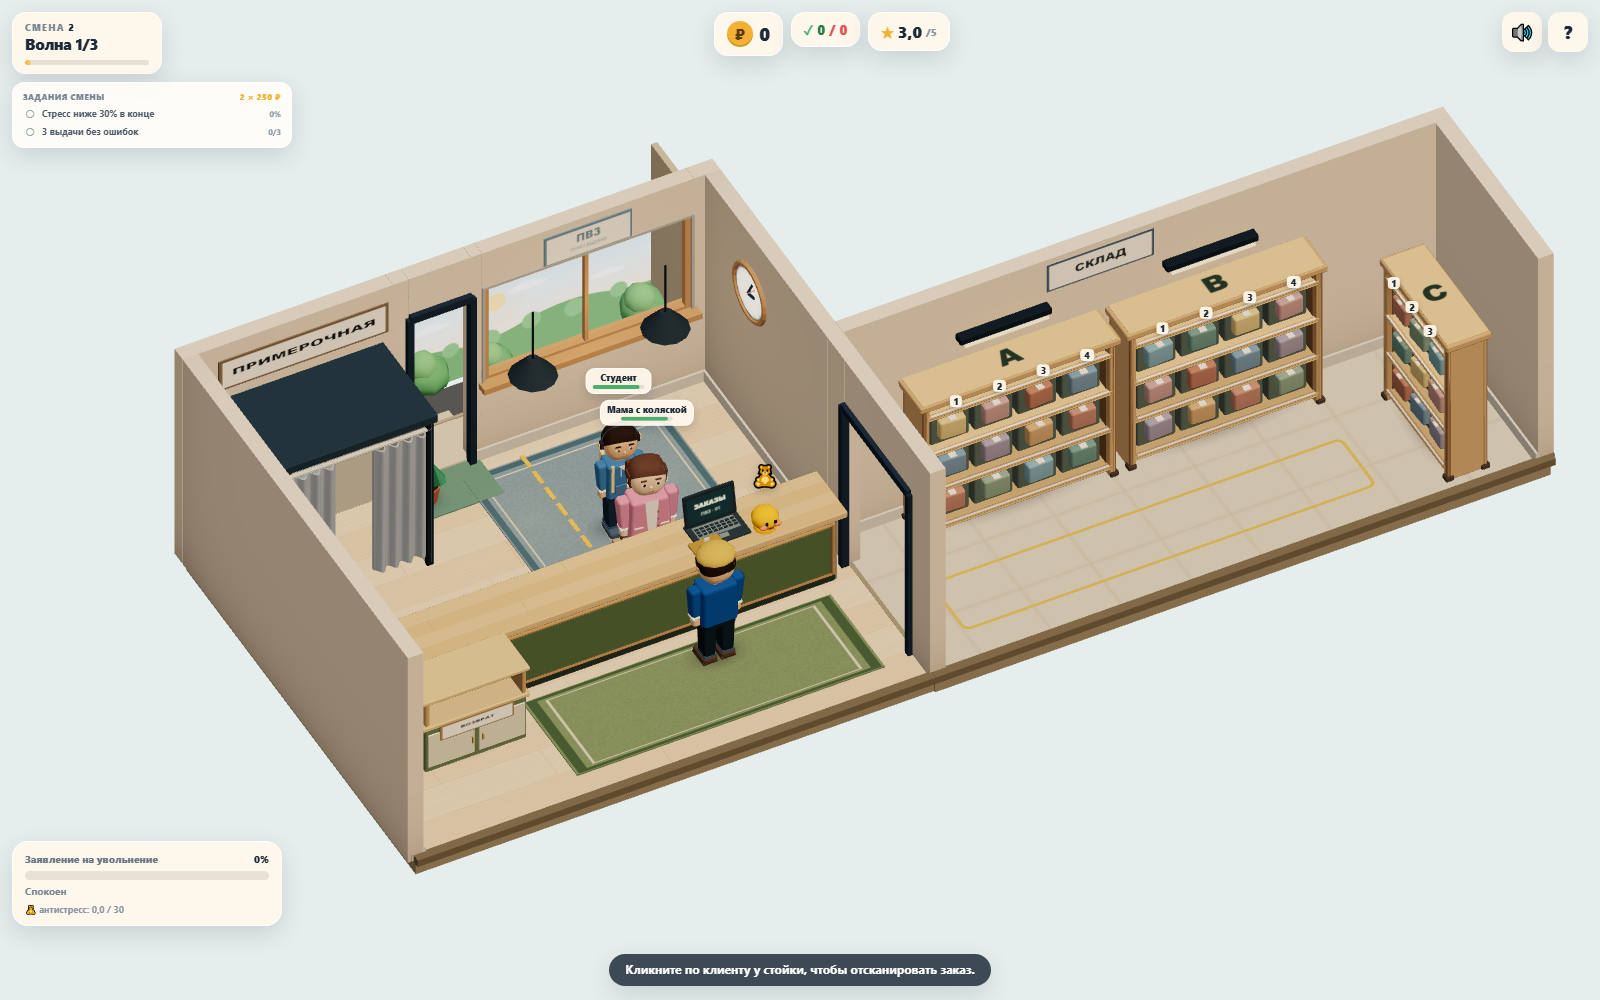
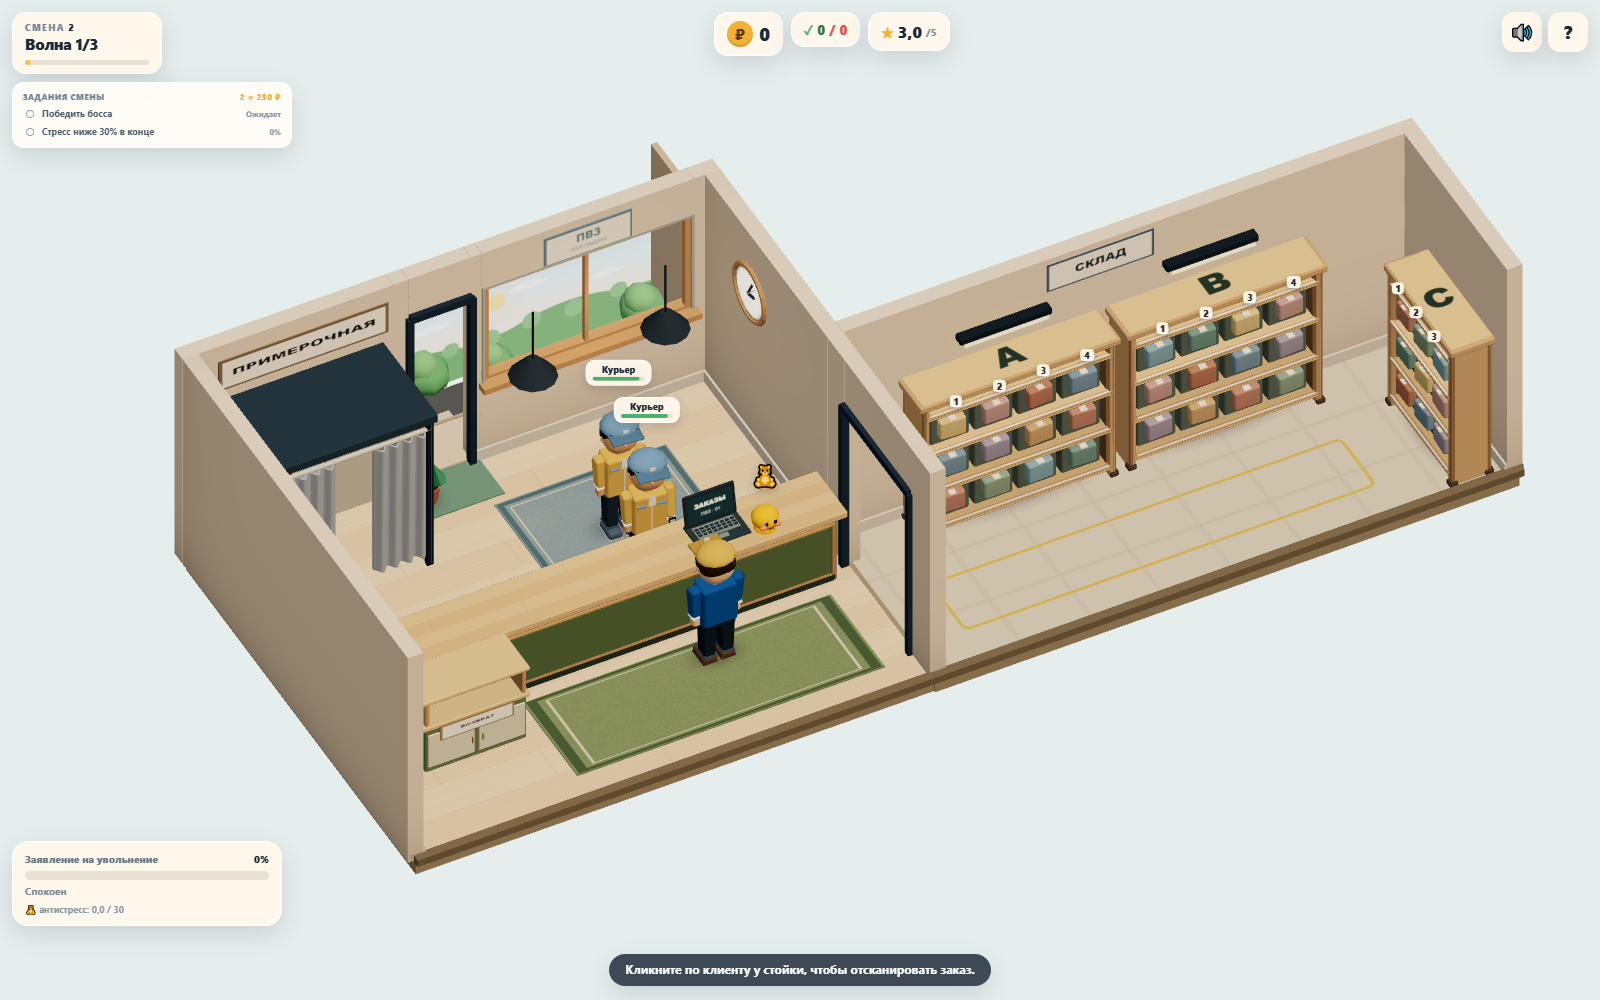
fix: подогнать коврик и стену за стеллажом C

diff --git a/src/view/environment.ts b/src/view/environment.ts
@@ -149,11 +149,11 @@ function createFloor(scene: THREE.Scene): THREE.Mesh[] {
 
 function createRug(scene: THREE.Scene): THREE.Mesh {
   const rug = new THREE.Mesh(
-    new THREE.BoxGeometry(2.55, 0.018, 2.5),
+    new THREE.BoxGeometry(2.2, 0.018, 1.85),
     new THREE.MeshLambertMaterial({ map: makeRugTexture() }),
   );
   rug.name = 'client-rug';
-  rug.position.set(0.35, 0.012, 2.12);
+  rug.position.set(0.4, 0.012, 1.9);
   rug.userData = { type: 'floor' };
   scene.add(rug);
 
@@ -545,15 +545,6 @@ function createWindow(scene: THREE.Scene): WindowVisual {
   return { setPhase, update: courtyard.update };
 }
 
-function createQueueLine(scene: THREE.Scene): void {
-  for (let index = 0; index < 9; index++) {
-    const dash = box(0.055, 0.012, 0.22, '#f0b44c');
-    dash.position.set(0.85, 0.02, 0.9 + index * 0.3);
-    dash.raycast = () => {};
-    scene.add(dash);
-  }
-}
-
 function createWalls(scene: THREE.Scene): {
   clock: THREE.Mesh;
   clockSecondHand: THREE.Object3D;
@@ -899,7 +890,6 @@ export function createEnvironment(scene: THREE.Scene): EnvironmentVisuals {
   const neon = createNeonSign(scene);
   createEntranceMat(scene);
   const windowVisual = createWindow(scene);
-  createQueueLine(scene);
   createLamps(scene);
   createFittingRooms(scene);
   createPlant(scene, 2.15, 3.25, 0.85);

diff --git a/src/data.ts b/src/data.ts
@@ -63,7 +63,7 @@ export function createDecorState(): DecorOwnership {
 
 // L-образная комната: основной зал справа, склад-крыло слева.
 export const ROOM = {
-  minX: -9.6,
+  minX: -9.2,
   maxX: 5.0,
   minZ: -2.0,
   maxZ: 3.8,
@@ -104,7 +104,7 @@ export const SHELF_DEFS: ShelfDef[] = [
   },
   {
     x: -8.6,
-    z: -1.0,
+    z: -1.1,
     rotation: Math.PI / 2,
     face: -Math.PI / 2,
     columns: 3,
@@ -159,7 +159,7 @@ export const FRONT_DOOR = { x: 1.8, z: 3.6, width: 0.8 };
 export const SHELF_POINTS: Vec2[] = [
   { x: -3.2, z: -0.55 },
   { x: -5.7, z: -0.55 },
-  { x: -7.7, z: -1.0 },
+  { x: -7.7, z: -1.1 },
 ];
 
 // Тот же угол 3/4; кадр расширен и сдвинут вместе с новым складским крылом.

diff --git a/src/view/props.ts b/src/view/props.ts
@@ -237,13 +237,14 @@ export function createShelf(index: number, scene: THREE.Scene): ShelfVisual {
   const labels: CSS2DObject[] = [];
   // Printed directly on the wooden top; it follows the shelf and its visibility.
   const letter = new THREE.Mesh(
-    new THREE.PlaneGeometry(0.56, 0.4),
+    new THREE.PlaneGeometry(0.7, 0.48),
     new THREE.MeshLambertMaterial({
       map: makeTextTexture(SHELF_LETTERS[index], { width: 256, height: 192, fontSize: 168, bg: 'transparent', color: '#34453a' }),
       transparent: true, depthWrite: false,
     }),
   );
   letter.name = 'shelf-top-letter';
+  letter.raycast = () => {};
   letter.rotation.x = -Math.PI / 2;
   letter.position.set(0, SHELF_H + 0.033, 0);
   // C runs across the room: keep its printed letter facing the same camera side.

diff --git a/docs/ROADMAP_ARCHITECTURE_GRAPHICS.md b/docs/ROADMAP_ARCHITECTURE_GRAPHICS.md
@@ -739,10 +739,11 @@ src/
 ### 6.58. Полировка геометрии интерьера — issue #72
 
 - Стойка укорочена со стороны складской арки: деревянный свес заканчивается перед рамой, противоположный край сохранён. Размеры nav-obstacle следуют COUNTER.
-- C сдвинут ближе к камере и B: (-8,6; -1,0); зелёная корзина убрана. Точка взаимодействия обновлена, маршруты ко всем колонкам B/C проверяются прежним e2e.
+- C сдвинут ближе к камере и B: (-8,6; -1,1); зелёная корзина убрана. Точка взаимодействия обновлена, маршруты ко всем колонкам B/C проверяются прежним e2e.
+- По уточнению владельца синий коврик уменьшен до 2,2 × 1,85 и сдвинут к стойке, клиентский пунктир убран. Стена за C приближена на 0,4 вместе с краем пола/nav; буквы увеличены. После уточнений повторены build, 92 unit и 8 профильных e2e, production preview и perf.
 - Большие A/B/C нанесены непосредственно на верхние панели. CSS2D-плашки букв убраны; номера колонок сохранены. Буквы скрываются вместе с неактивной полкой.
 - Разметка прохода уменьшена до 5,3 × 0,9 и отцентрована в свободной части склада. Наружные торцы стен замкнуты стыками впритык, без недостающих четвертей углов.
-- Build, 92 unit и 71 e2e прошли; production preview — без ошибок. Perf: 127/179 calls, 61 875/84 692 triangles, без shadow maps.
+- Build, 92 unit и 71 e2e прошли; production preview — без ошибок. Perf: 127/179 calls, 61 715/84 532 triangles, без shadow maps.
 - Механики, окно, камера, модели персонажей и магазин не менялись. Метрики и скриншоты — в `docs/perf/72-interior` и `docs/screenshots/72-interior`.
 
 ### Исторические метрики до визуальных проходов

diff --git a/docs/perf/72-interior/REPORT.md b/docs/perf/72-interior/REPORT.md
@@ -4,11 +4,13 @@
 
 | Сцена | Draw calls | Triangles | Textures | Programs | avg / p95 / max, мс |
 |---|---:|---:|---:|---:|---|
-| 2 клиента | 127 | 61 875 | 16 | 10 | 79,63 / 83,40 / 100,00 |
-| 4 клиента + весь декор | 179 | 84 692 | 20 | 10 | 88,59 / 100,10 / 100,10 |
+| 2 клиента | 127 | 61 715 | 16 | 10 | 79,89 / 83,40 / 83,40 |
+| 4 клиента + весь декор | 179 | 84 532 | 20 | 10 | 92,12 / 100,00 / 100,10 |
 
 Shadow maps выключены, refresh = 0. Бюджет 150/180 calls и 150k triangles соблюдён. Запас полного оформления — 1 call: будущий декор требует отдельного бюджета. Текстурные буквы добавляют три статических материала/текстуры; удалённая корзина уменьшает число треугольников. Персонажи и их ресурсы не менялись.
 
-Build, 92 unit, 71 e2e — PASS. Production preview 1600×1000: край столешницы x=-1,51 перед рамой x=-1,54, 3 буквы на верхних панелях и 0 плавающих букв, пути A/B/C доступны; console.error/pageerror отсутствуют.
+Build и 92 unit — PASS. Полный набор 71 e2e прошёл до последних визуальных правок; после них повторены 8 e2e (game-loop, interior-layout, pointer-picking, nav-target) — PASS. Production preview 1600×1000: край столешницы x=-1,51 перед рамой x=-1,54, 3 буквы на верхних панелях и 0 плавающих букв, пути A/B/C доступны; console.error/pageerror отсутствуют.
 
 [Общий кадр](../../screenshots/72-interior/overview.png) · [Склад крупнее](../../screenshots/72-interior/warehouse.png) · [4 клиента с декором](../../screenshots/72-interior/four-clients.png).
+
+Уточнения владельца: клиентский коврик 2,2 × 1,85 ближе к стойке, клиентский пунктир убран; C сдвинут ещё на 0,1 к камере, боковая стена/пол/граница nav подведены на 0,4 к C; буквы увеличены до 0,7 × 0,48. Прямоугольная складская разметка сохранена.
